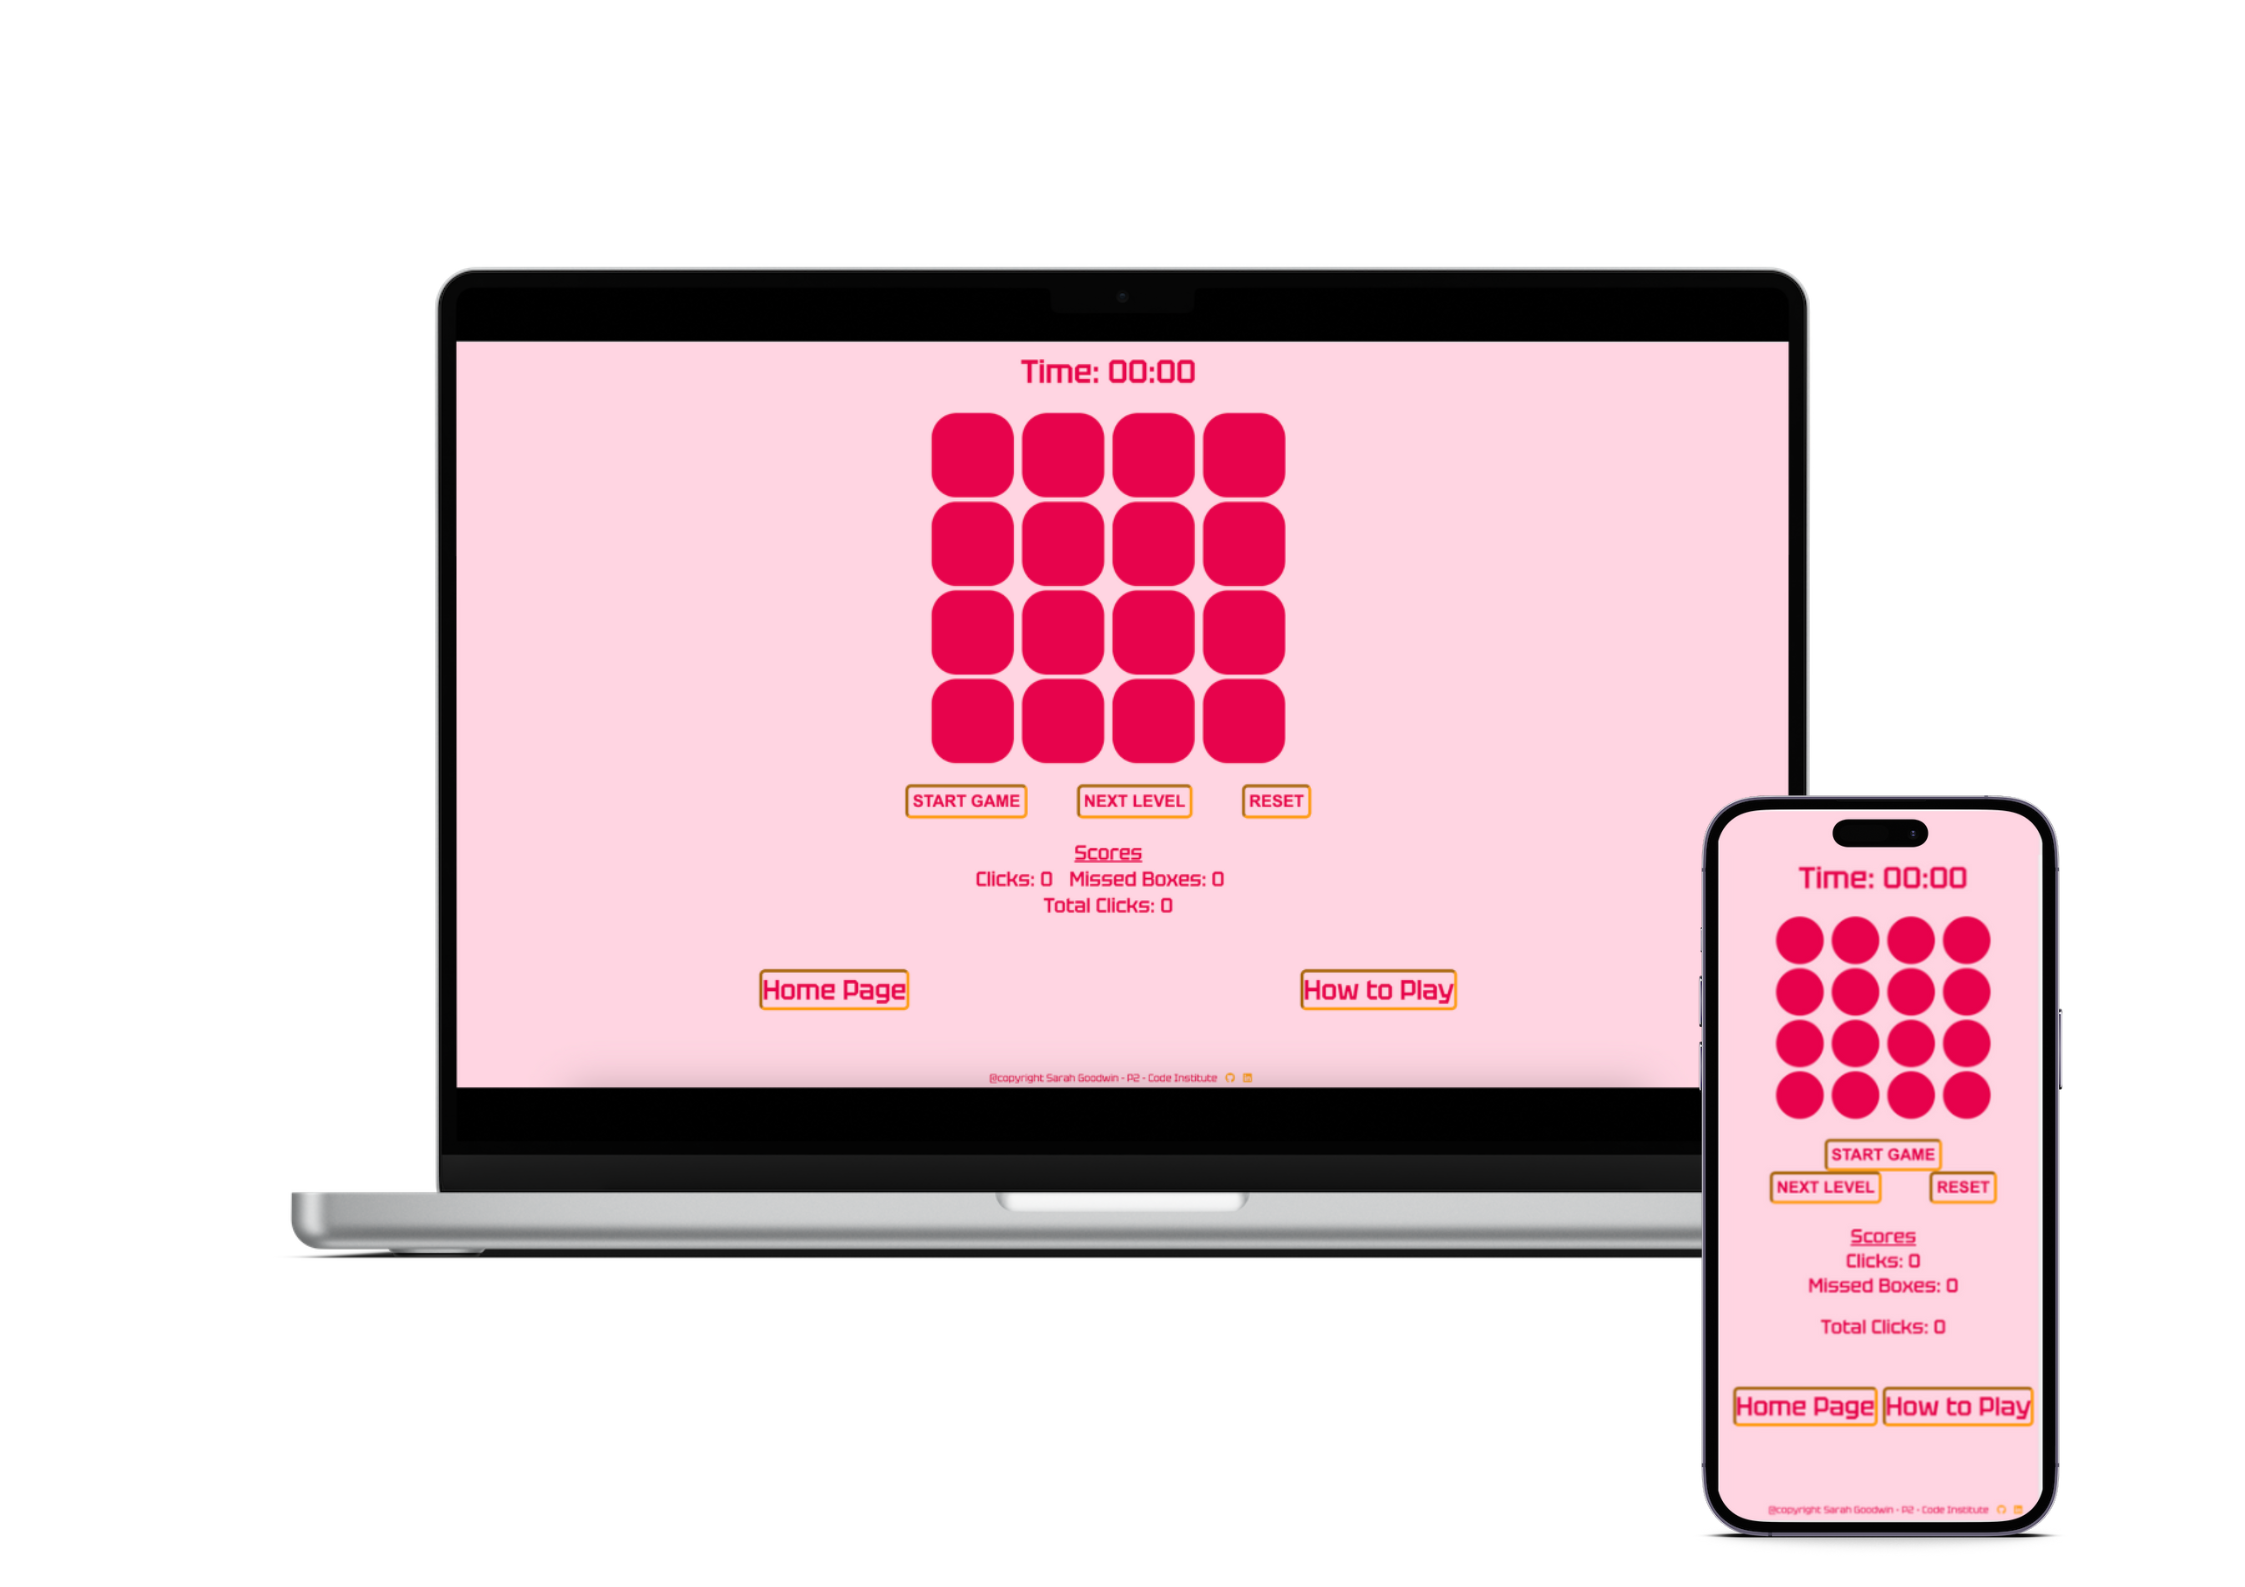
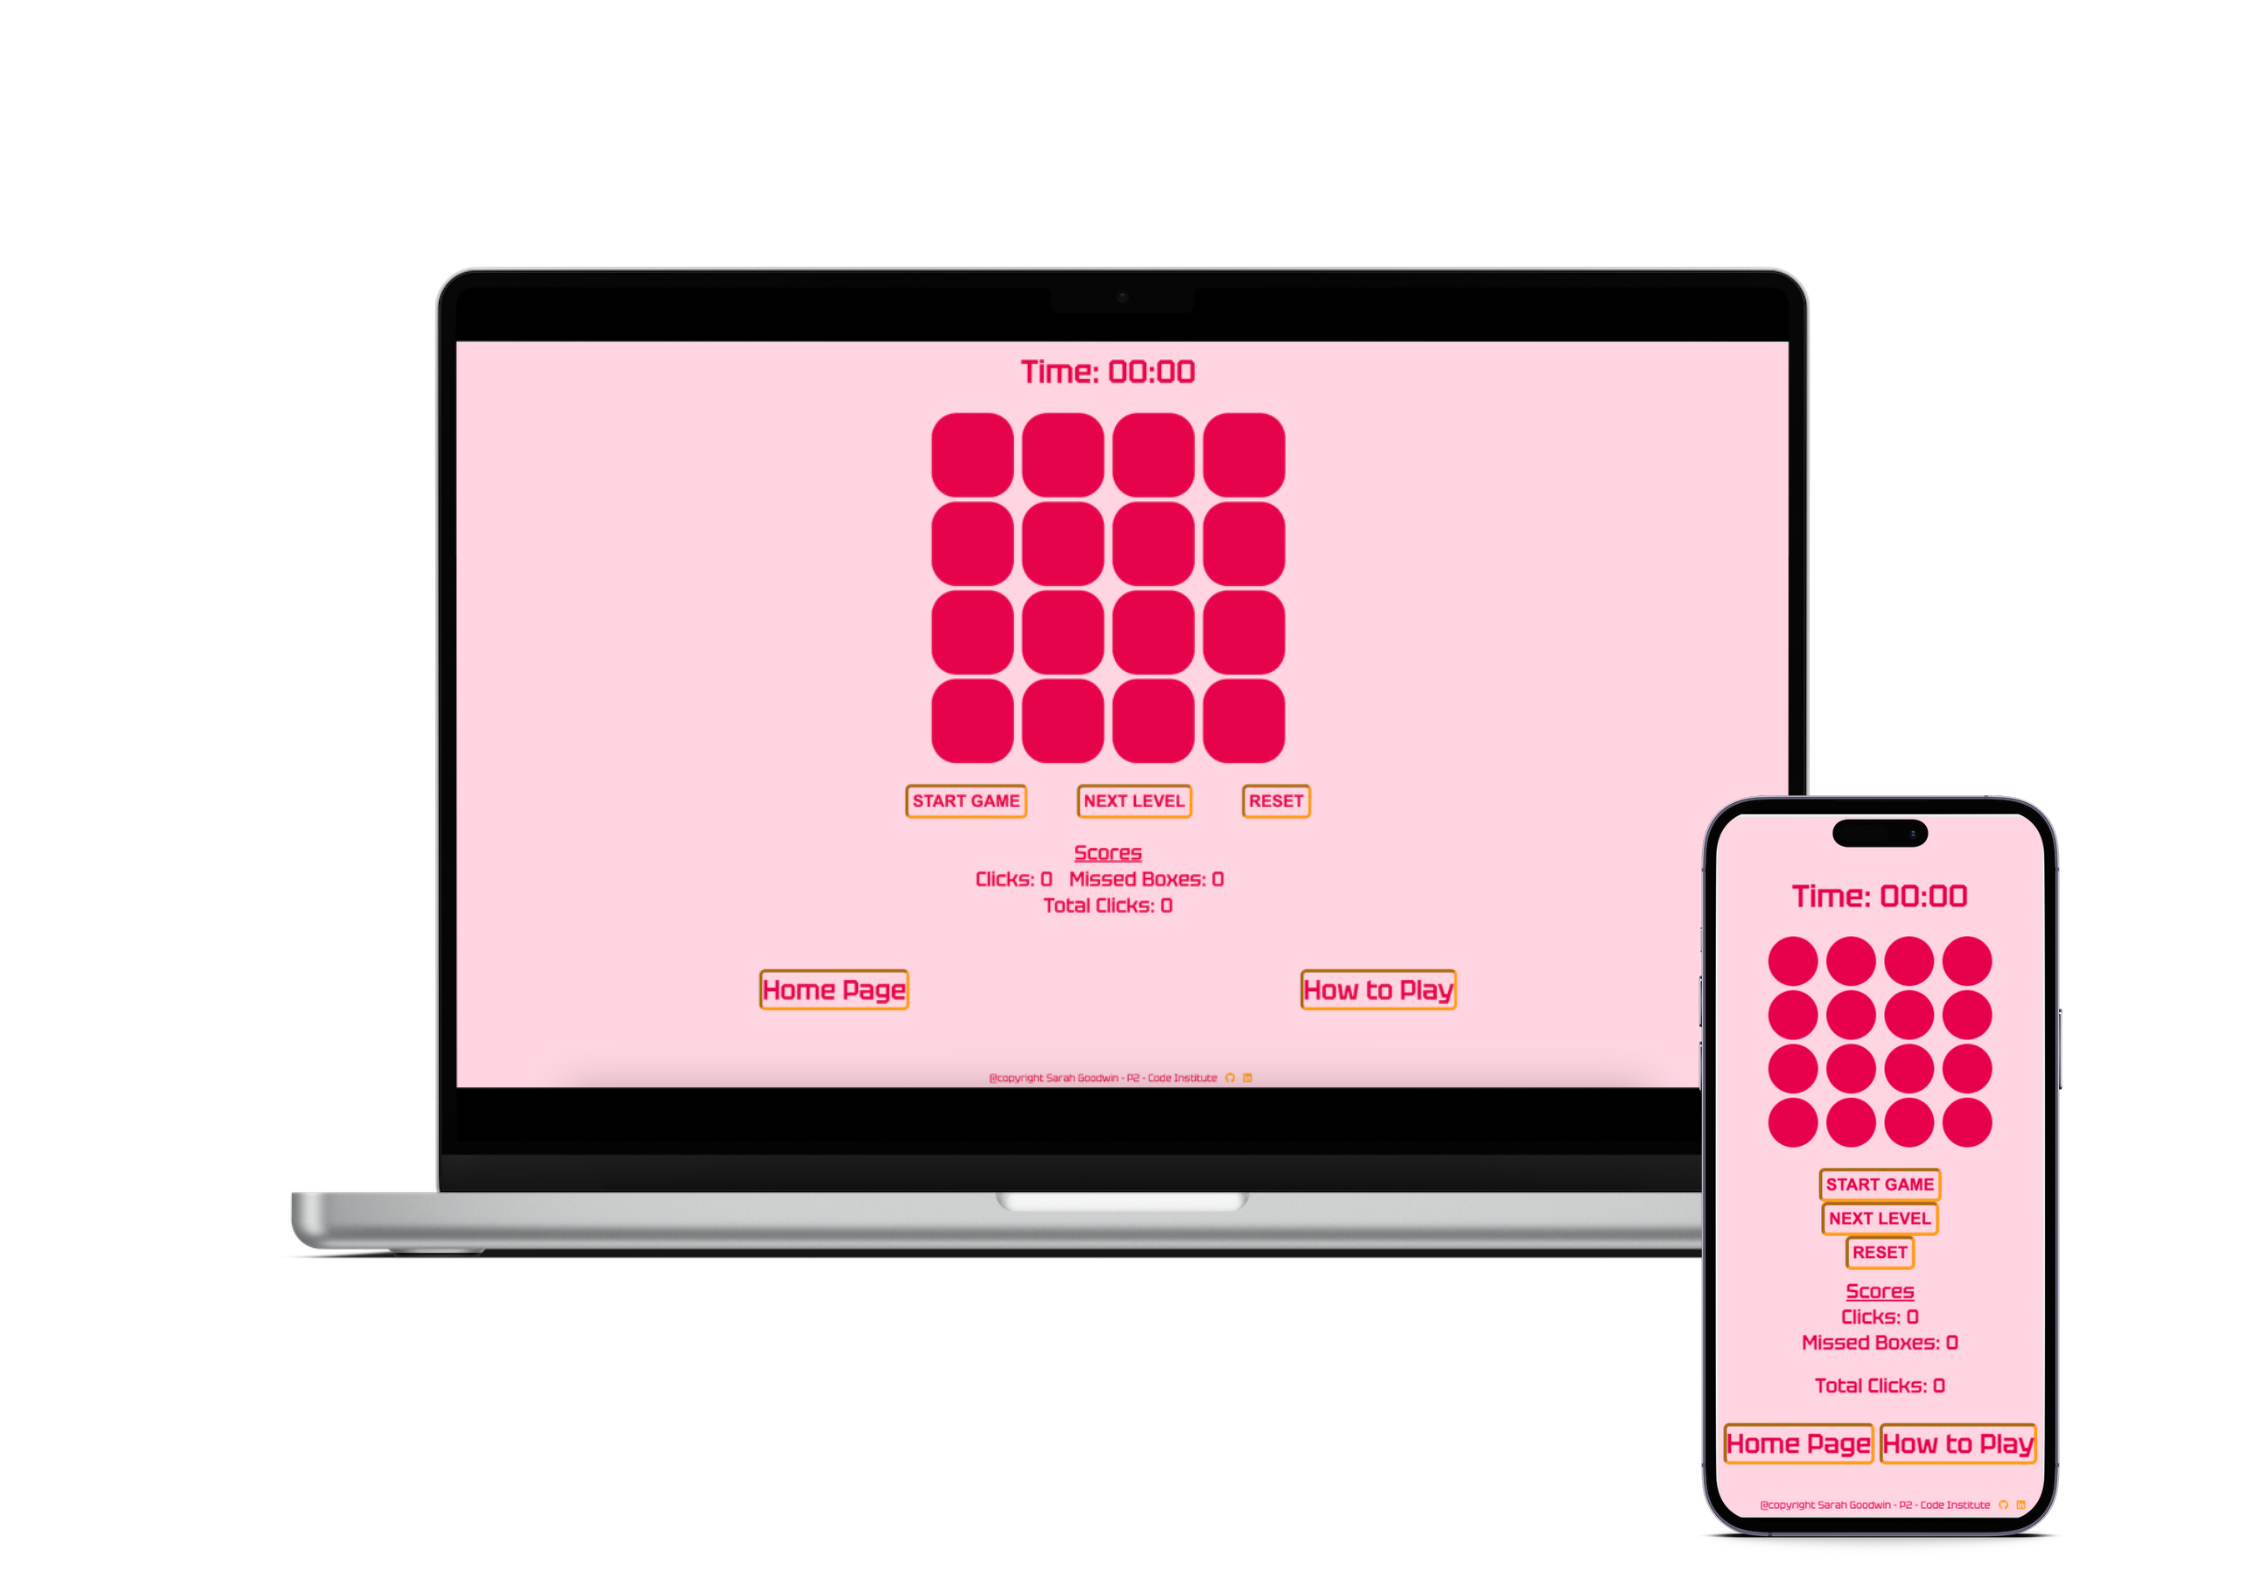
README: add footer

Changed region(s): [[0.7483, 0.494, 0.9354, 0.9572]]

diff --git a/README.md b/README.md
@@ -159,6 +159,8 @@ The homepage is a simple design offering a large logo image of the game grid, an
 
 A simple design was chosen so that users have a clear action path, either to read the game instrctuion or to so straight to the game play.
 
+It is responsive on both desktop and mobile.
+
 ![Homepage Image](assets/images/readme-images/home-page.png "Screenshot of homepage on mobile laptop and mobile screens")
 
 ## How to Play
@@ -247,9 +249,17 @@ The total clicks will go back to 0 once a new game is started by either pressing
 
 ![Scores](assets/images/readme-images/scores.png "Screenshot of scores")
 
+The Game Grid is responsive on both desktop and mobile.
+
+![Play Game Image](assets/images/readme-images/game.png "Screenshot of homepage on mobile laptop and mobile screens")
+
 ## The Footer
 
-![Footer screenshot]( "Screenshot of Footer")
+The footer shows who made the game, Sarah Goodwin, that it is copywritted and that it is part of Project 2 for the Codi Institute.
+
+It also has links to Sarah's Github and Linkedin profiles should you wish to contact her
+
+![Footer screenshot](assets/images/readme-images/footer.png "Screenshot of Footer")
 
 # Features Left to Implement
 
